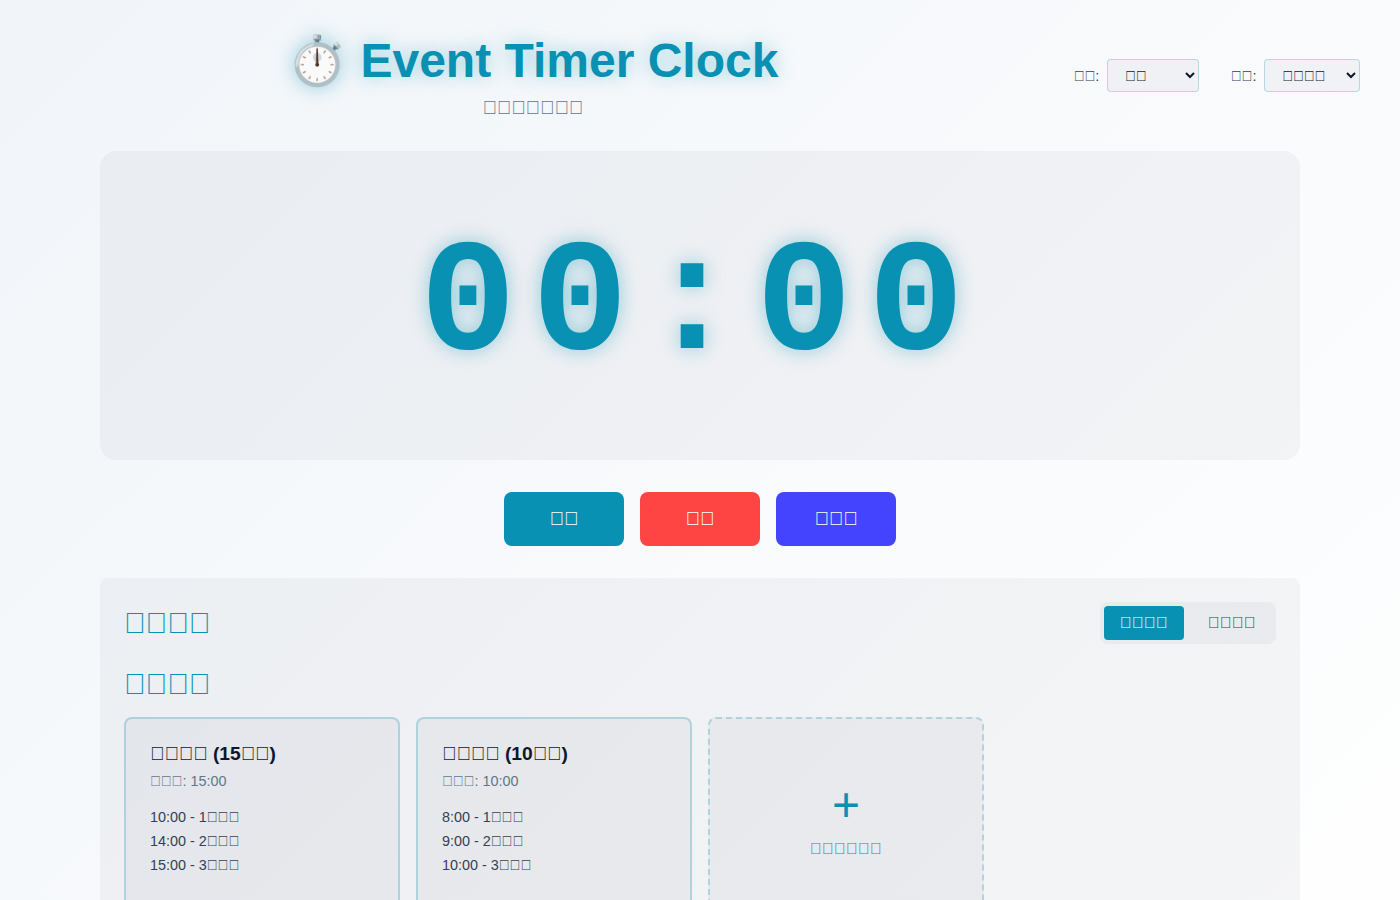
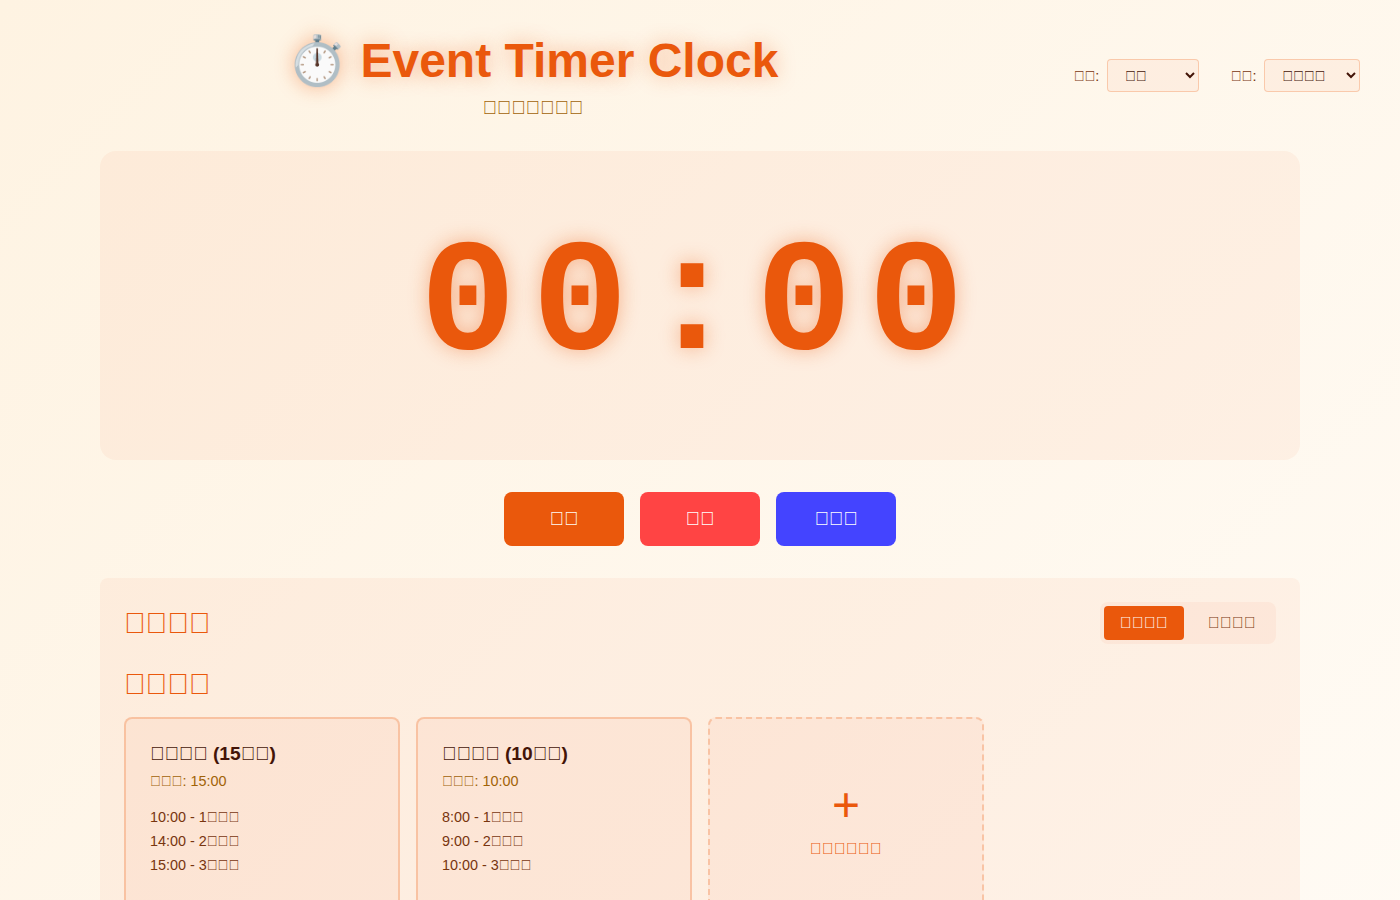
Redesign light mode with warm orange color scheme

diff --git a/src/style.css b/src/style.css
@@ -26,21 +26,21 @@
 
 /* Light theme */
 :root.light-theme {
-  --primary-color: #0891b2;
-  --bg-primary: #ffffff;
-  --bg-secondary: #f1f5f9;
-  --bg-card: rgba(15, 23, 42, 0.04);
-  --text-primary: #0f172a;
-  --text-secondary: #334155;
-  --text-tertiary: #64748b;
-  --border-color: rgba(8, 145, 178, 0.25);
+  --primary-color: #ea580c;
+  --bg-primary: #fffbf5;
+  --bg-secondary: #fef3e2;
+  --bg-card: rgba(234, 88, 12, 0.05);
+  --text-primary: #431407;
+  --text-secondary: #78350f;
+  --text-tertiary: #a16207;
+  --border-color: rgba(234, 88, 12, 0.25);
   --border-hover: var(--primary-color);
-  --shadow-color: rgba(15, 23, 42, 0.08);
-  --primary-shadow: rgba(8, 145, 178, 0.4);
-  --primary-shadow-light: rgba(8, 145, 178, 0.2);
-  --scrollbar-bg: rgba(15, 23, 42, 0.06);
-  --scrollbar-thumb: rgba(8, 145, 178, 0.35);
-  --scrollbar-thumb-hover: rgba(8, 145, 178, 0.5);
+  --shadow-color: rgba(67, 20, 7, 0.08);
+  --primary-shadow: rgba(234, 88, 12, 0.4);
+  --primary-shadow-light: rgba(234, 88, 12, 0.2);
+  --scrollbar-bg: rgba(67, 20, 7, 0.06);
+  --scrollbar-thumb: rgba(234, 88, 12, 0.35);
+  --scrollbar-thumb-hover: rgba(234, 88, 12, 0.5);
   --error-color: #dc2626;
   --error-bg: rgba(220, 38, 38, 0.12);
   --info-color: #2563eb;
